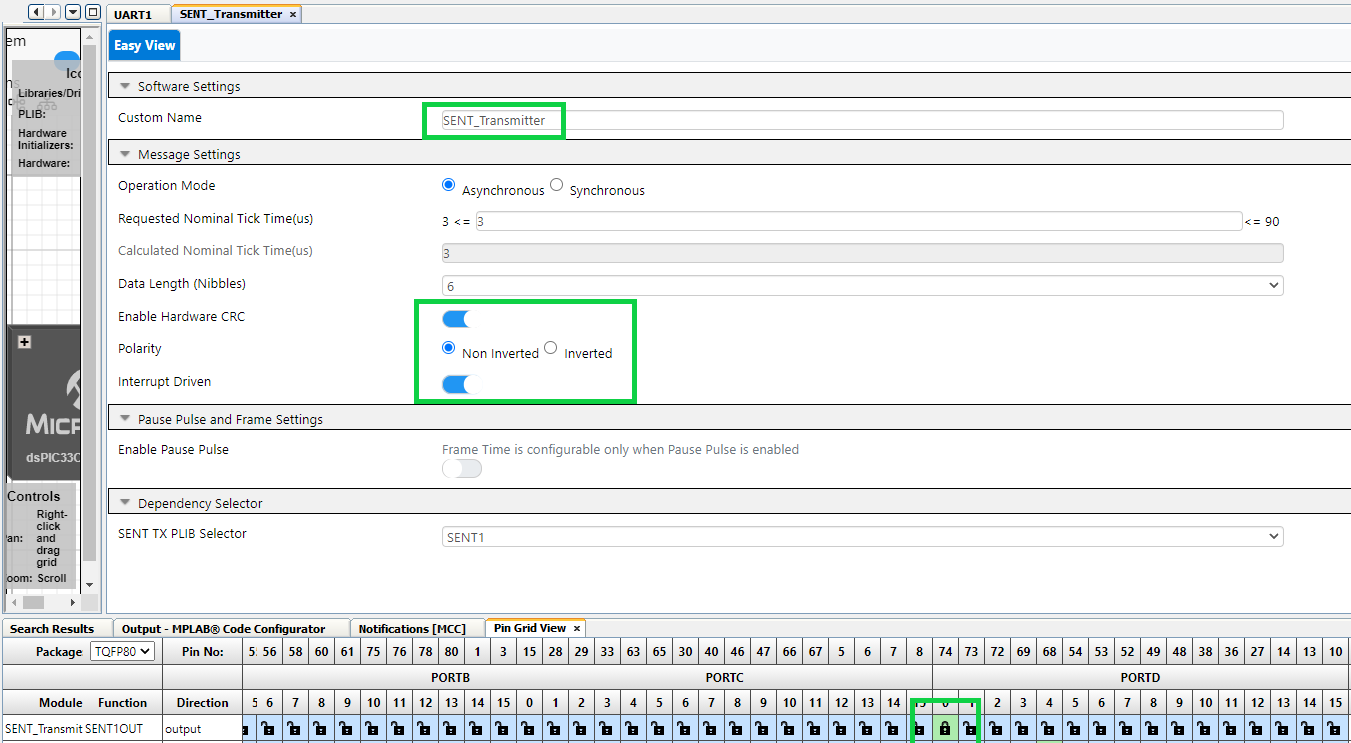
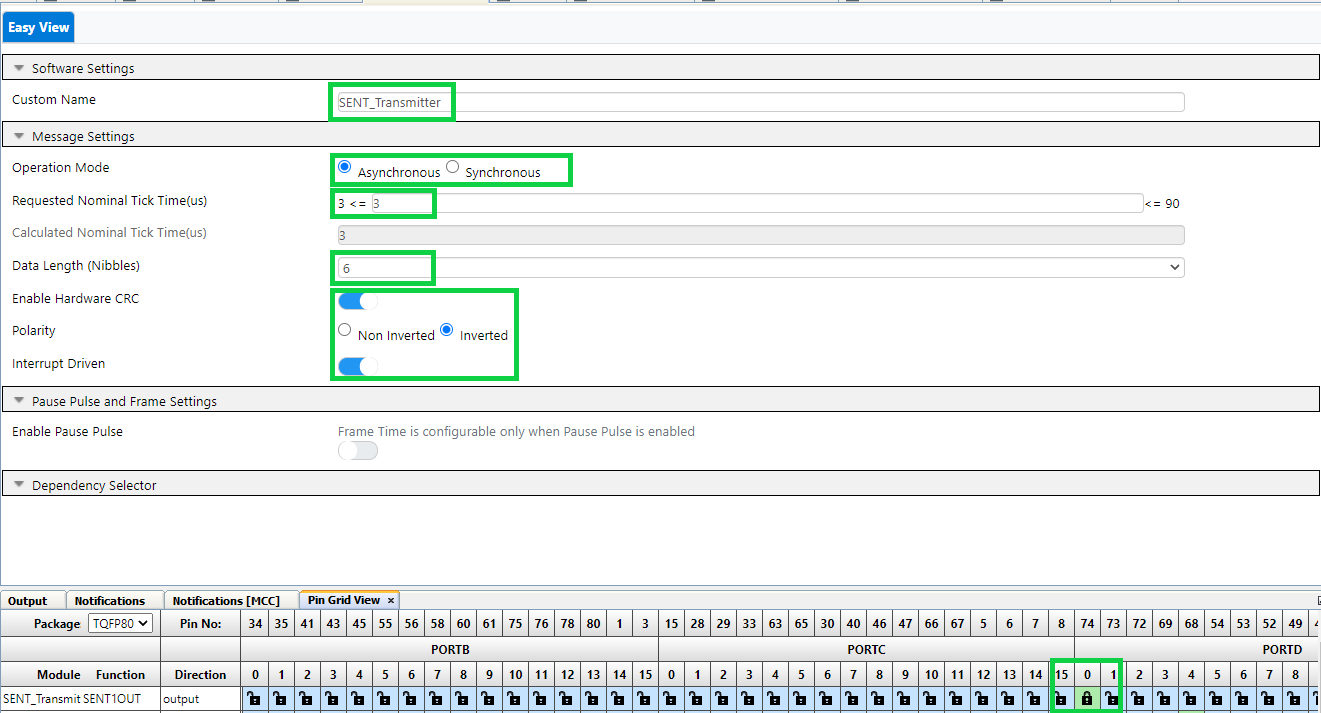
- Added Payload configuration options - Removed delays and blocking calls inside SENT functionality

diff --git a/dspic33ck-curiosity-sent-loopback-demo.X/main.c b/dspic33ck-curiosity-sent-loopback-demo.X/main.c
@@ -29,9 +29,6 @@
 #include "mcc_generated_files/sent_tx/sent1.h"
 #include "mcc_generated_files/sent_rx/sent2.h"
 
-//Macros
-#define FCY CLOCK_SystemFrequencyGet()
-
 //Structure Variables
 const volatile struct SENT_TRANSMIT_INTERFACE *sentTx = &SENT_Transmitter;
 const volatile struct SENT_RECEIVE_INTERFACE *sentRx = &SENT_Receiver;
@@ -41,15 +38,23 @@ struct SENT_DATA_RECEIVE sentDataReceive;
 //Functions
 void SENT_TxRxInitialization();
 void SENT_TxRxDeInitialization();
-void SENT_PayloadConfiguration();
-bool SENT_TransmitReceive();
-bool SENT_WaitForTransmissionComplete(bool *result);
-bool SENT_WaitForReceptionComplete(bool *result);
+void SENT_AsyncPayloadConfiguration();
+bool SENT_AsyncTransmitReceive();
+bool SENT_SyncTransmitReceive();
+
+bool printPayloadData(struct SENT_DATA_TRANSMIT *txdata, struct SENT_DATA_RECEIVE *rxdata);
 bool compare(struct SENT_DATA_TRANSMIT *txdata, struct SENT_DATA_RECEIVE *rxdata);
 bool waitForCallbackTimeout(bool (*handler)(bool *status), uint32_t timeOut);
 
 static bool softTimeOut(uint32_t intVal);
 static bool (*callbackResponseWaitHandler)(bool *status) = NULL;
+
+void TxComplete_CB();
+void RxComplete_CB();
+
+//Variables
+bool isTxCompleteFlag = false;
+bool isRxCompleteFlag = false;
 
 //Enums
 enum SENT_STATE{
@@ -67,6 +72,7 @@ int main(void)
 {
     bool sent_status = false;
     uint8_t current_state = (uint8_t)SENT_INIT_STATE;
+    
     SYSTEM_Initialize();
 
     while(1)
@@ -80,24 +86,28 @@ int main(void)
                 printf("#########################################\r\n\r\n");
                 printf("SENT Initialization Successful\r\n");
                 printf("------------------------------------------\r\n\r\n");
-                SENT_PayloadConfiguration();   //Set Payload Data for SENT (User Configurable)
-                __delay32(10000);
+                SENT_TxRxInitialization();
+                SENT_AsyncPayloadConfiguration();   //Set Payload Data for SENT (User Configurable)
+                sentTx->TransmitCompleteCallbackRegister(&TxComplete_CB);   //Register Callback Function for Transmit Complete
+                sentRx->ReceiveCompleteCallbackRegister(&RxComplete_CB);    //Register Callback Function for Receive Complete
                 current_state = SENT_ASYNC_STATE;
                 break;
             case SENT_ASYNC_STATE:
                 //Async State
-               sentTx->TransmitModeSet(SENT_TRANSMIT_ASYNCHRONOUS);  //Set Transmit Mode to ASYNCHRONOUS
-               sent_status = SENT_TransmitReceive(); //SENT Transmit & Receive 
+               sentTx->TransmitModeSet(SENT_TRANSMIT_ASYNCHRONOUS); //Set Transmit Mode to ASYNCHRONOUS
+               sent_status = waitForCallbackTimeout(&SENT_AsyncTransmitReceive,100); //SENT Transmit & Receive 
                sent_status ? UserLEDGreen_SetHigh() : UserLEDRed_SetHigh();
                sent_status ? printf("SENT Asynchronous Communication Success\r\n") : printf("SENT Asynchronous Communication Unsuccessful\r\n"); 
                printf("------------------------------------------\r\n\r\n");
                current_state = SENT_SYNC_STATE;
-               sent_status = false;             
+               sent_status = false;   
                break;
            case SENT_SYNC_STATE:
                //Sync State
+               SENT_TxRxInitialization();   //Initialize SENT again
+               SENT_SyncPayloadConfiguration();  //Update new set of SENT Payload values (User Configurable)
                sentTx->TransmitModeSet(SENT_TRANSMIT_SYNCHRONOUS); //Set Transmit Mode to SYNCHRONOUS
-               sent_status = SENT_TransmitReceive(); //SENT Transmit & Receive 
+               sent_status = waitForCallbackTimeout(&SENT_SyncTransmitReceive,100); //SENT Transmit & Receive 
                sent_status ? UserLEDGreen_SetHigh() : UserLEDRed_SetHigh();
                sent_status ? printf("SENT Synchronous Communication Success\r\n") : printf("SENT Synchronous Communication Unsuccessful\r\n");
                printf("------------------------------------------\r\n\r\n");
@@ -107,10 +117,10 @@ int main(void)
            case SENT_DEINIT_STATE:
                //Deinit State
                SENT_TxRxDeInitialization();
-               current_state = SENT_IDLE_STATE;
                printf("SENT De-Initialization Successful\r\n");
                printf("------------------------------------------\r\n\r\n");
                printf("#########################################\r\n");
+               current_state = SENT_IDLE_STATE;
                break;
             case SENT_IDLE_STATE:
                 //Idle State
@@ -120,6 +130,16 @@ int main(void)
                 break;
        }
     }    
+}
+
+void TxComplete_CB()
+{
+    isTxCompleteFlag = true;
+}
+
+void RxComplete_CB()
+{
+    isRxCompleteFlag = true; 
 }
 
 void SENT_TxRxInitialization()
@@ -134,7 +154,7 @@ void SENT_TxRxDeInitialization()
     sentRx->Deinitialize();
 }
 
-void SENT_PayloadConfiguration()
+void SENT_AsyncPayloadConfiguration()
 {
     sentDataTransmit.status = 7;  //User Configurable
     sentDataTransmit.data1 = 1;   //User Configurable
@@ -145,48 +165,70 @@ void SENT_PayloadConfiguration()
     sentDataTransmit.data6 = 6;   //User Configurable
 }
 
-bool SENT_TransmitReceive()
+void SENT_SyncPayloadConfiguration()
 {
-    bool result = false;
-    bool txCompleteFlag = false;
-    bool rxCompleteFlag = false;
-    
+    sentDataTransmit.status = 9;  //User Configurable
+    sentDataTransmit.data1 = 6;   //User Configurable
+    sentDataTransmit.data2 = 5;   //User Configurable
+    sentDataTransmit.data3 = 4;   //User Configurable
+    sentDataTransmit.data4 = 3;   //User Configurable
+    sentDataTransmit.data5 = 2;   //User Configurable
+    sentDataTransmit.data6 = 1;   //User Configurable
+}
+
+bool SENT_AsyncTransmitReceive(bool *result)
+{
     sentTx->Transmit(&sentDataTransmit);
     
-    txCompleteFlag = waitForCallbackTimeout(&SENT_WaitForTransmissionComplete,2000);
-    rxCompleteFlag = waitForCallbackTimeout(&SENT_WaitForReceptionComplete,2000);
-    
-    __delay32(1000);
-    
-    if((txCompleteFlag & rxCompleteFlag) == true)
+    if((isTxCompleteFlag && isRxCompleteFlag) == true)
     {
         sentDataReceive = sentRx->Receive();
-        result = compare(&sentDataTransmit, &sentDataReceive);
-        
-        return result;
+        *result = compare(&sentDataTransmit, &sentDataReceive);
+        printPayloadData(&sentDataTransmit, &sentDataReceive);
+        isTxCompleteFlag = false;
+        isRxCompleteFlag = false;
+        return *result;
     }
-
-    return result;
-}
-
-bool SENT_WaitForTransmissionComplete(bool *result)
-{
-    if(sentTx->IsTransmissionComplete() == true)
-    {
-        *result = true;
-        return true;
-    }
+    *result = false;
     return false;
 }
 
-bool SENT_WaitForReceptionComplete(bool *result)
+bool SENT_SyncTransmitReceive(bool *result)
 {
-    if(sentRx->IsDataReceived() == true)
+    
+    bool isSyncTxComplete = false;
+    bool isSyncRxComplete = false;
+    sentTx->Transmit(&sentDataTransmit);
+
+    isSyncTxComplete = sentTx->IsTransmissionComplete();
+    isSyncRxComplete = sentRx->IsDataReceived();
+
+    if((isSyncTxComplete && isSyncRxComplete) == true)
     {
-        *result = true;
-        return true;
+        sentDataReceive = sentRx->Receive();
+        *result = compare(&sentDataTransmit, &sentDataReceive);
+        printPayloadData(&sentDataTransmit, &sentDataReceive);
+        isSyncTxComplete = false;
+        isSyncRxComplete = false;
+        return *result;
     }
+    *result = false;
     return false;
+}
+
+bool printPayloadData(struct SENT_DATA_TRANSMIT *txdata, struct SENT_DATA_RECEIVE *rxdata)
+{
+    printf("-------------------------------------------------\r\n");
+    printf("|  PAYLOAD   |   DATA SENT    |  DATA RECEIVED  |\r\n");
+    printf("-------------------------------------------------\r\n");
+    printf("|   Status   |       %u        |        %u        |\r\n",txdata->status, rxdata->status);
+    printf("|   Data_1   |       %u        |        %u        |\r\n",txdata->data1, rxdata->data1);
+    printf("|   Data_2   |       %u        |        %u        |\r\n",txdata->data2, rxdata->data2);
+    printf("|   Data_3   |       %u        |        %u        |\r\n",txdata->data3, rxdata->data3);
+    printf("|   Data_4   |       %u        |        %u        |\r\n",txdata->data4, rxdata->data4);
+    printf("|   Data_5   |       %u        |        %u        |\r\n",txdata->data5, rxdata->data5);
+    printf("|   Data_6   |       %u        |        %u        |\r\n",txdata->data6, rxdata->data6);
+    printf("-------------------------------------------------\r\n\r\n");
 }
 
 bool compare(struct SENT_DATA_TRANSMIT *txdata, struct SENT_DATA_RECEIVE *rxdata)

diff --git a/dspic33ck-curiosity-sent-loopback-demo.X/mcc_generated_files/system/src/config_bits.c b/dspic33ck-curiosity-sent-loopback-demo.X/mcc_generated_files/system/src/config_bits.c
@@ -54,7 +54,7 @@
 
 // FOSC
 #pragma config POSCMD = NONE    //Primary Oscillator Mode Select bits->Primary Oscillator disabled
-#pragma config OSCIOFNC = OFF    //OSC2 Pin Function bit->OSC2 is clock output
+#pragma config OSCIOFNC = ON    //OSC2 Pin Function bit->OSC2 is general purpose digital I/O pin
 #pragma config FCKSM = CSDCMD    //Clock Switching Mode bits->Both Clock switching and Fail-safe Clock Monitor are disabled
 #pragma config PLLKEN = ON    //PLL Lock Status Control->PLL lock signal will be used to disable PLL clock output if lock is lost
 #pragma config XTCFG = G3    //XT Config->24-32 MHz crystals
@@ -72,7 +72,7 @@
 #pragma config BISTDIS = DISABLED    //Memory BIST Feature Disable->mBIST on reset feature disabled
 
 // FICD
-#pragma config ICS = PGD1    //ICD Communication Channel Select bits->Communicate on PGC1 and PGD1
+#pragma config ICS = PGD3    //ICD Communication Channel Select bits->Communicate on PGC3 and PGD3
 #pragma config JTAGEN = OFF    //JTAG Enable bit->JTAG is disabled
 #pragma config NOBTSWP = DISABLED    //BOOTSWP instruction disable bit->BOOTSWP instruction is disabled
 

diff --git a/dspic33ck-curiosity-sent-loopback-demo.X/mcc_generated_files/system/src/pins.c b/dspic33ck-curiosity-sent-loopback-demo.X/mcc_generated_files/system/src/pins.c
@@ -56,7 +56,7 @@ void PINS_Initialize(void)
      * Setting the GPIO Direction SFR(s)
      ***************************************************************************/
     TRISA = 0x001F;
-    TRISB = 0xFFFD;
+    TRISB = 0xFFFF;
     TRISC = 0xFFFF;
     TRISD = 0xFFEE;
     TRISE = 0x3FFF;
@@ -91,7 +91,7 @@ void PINS_Initialize(void)
      * Setting the Analog/Digital Configuration SFR(s)
      ***************************************************************************/
     ANSELA = 0x001F;
-    ANSELB = 0x009D;
+    ANSELB = 0x039F;
     ANSELC = 0x00CF;
     ANSELD = 0x2C00;
     ANSELE = 0x000F;

diff --git a/dspic33ck-curiosity-sent-loopback-demo.X/mcc_generated_files/sent_tx/src/sent1.c b/dspic33ck-curiosity-sent-loopback-demo.X/mcc_generated_files/sent_tx/src/sent1.c
@@ -67,8 +67,8 @@ const struct SENT_TRANSMIT_INTERFACE SENT_Transmitter = {
 
 void SENT1_Initialize(void)
 {
-    // PPP disabled; TXPOL Non Inverted; SNTSIDL disabled; PS Divide-by-1; SNTEN disabled; SPCEN disabled; TXM Asynchronous; CRCEN enabled; RCVEN Transmitter; NIBCNT 6; 
-    SENT1CON1 = 0x106;
+    // PPP disabled; TXPOL Inverted; SNTSIDL disabled; PS Divide-by-1; SNTEN disabled; SPCEN disabled; TXM Asynchronous; CRCEN enabled; RCVEN Transmitter; NIBCNT 6; 
+    SENT1CON1 = 0x306;
     // SENTCON2 11; 
     SENT1CON2 = 0xB;
     // SENTCON3 0x0; 
